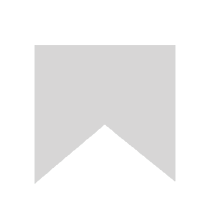
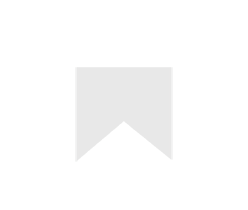
up

diff --git a/index.html b/index.html
@@ -25,7 +25,7 @@
             
             </nav>
            <div>
-                <h1>&#x1F495 Fêliz dia dos namorados. &#x1F495</h1>
+                <h1>◤◥ Chegou São João!!! ◤◥</h1>
                
                 
                 <picture>

diff --git a/style.css b/style.css
@@ -22,7 +22,7 @@
 }*/
 body {
     background: var(--cor3);
-    background-image: url("pata.png");
+    background-image: url("bandeirinha2.png");
 }
     a {
     color: var(--cor2);
